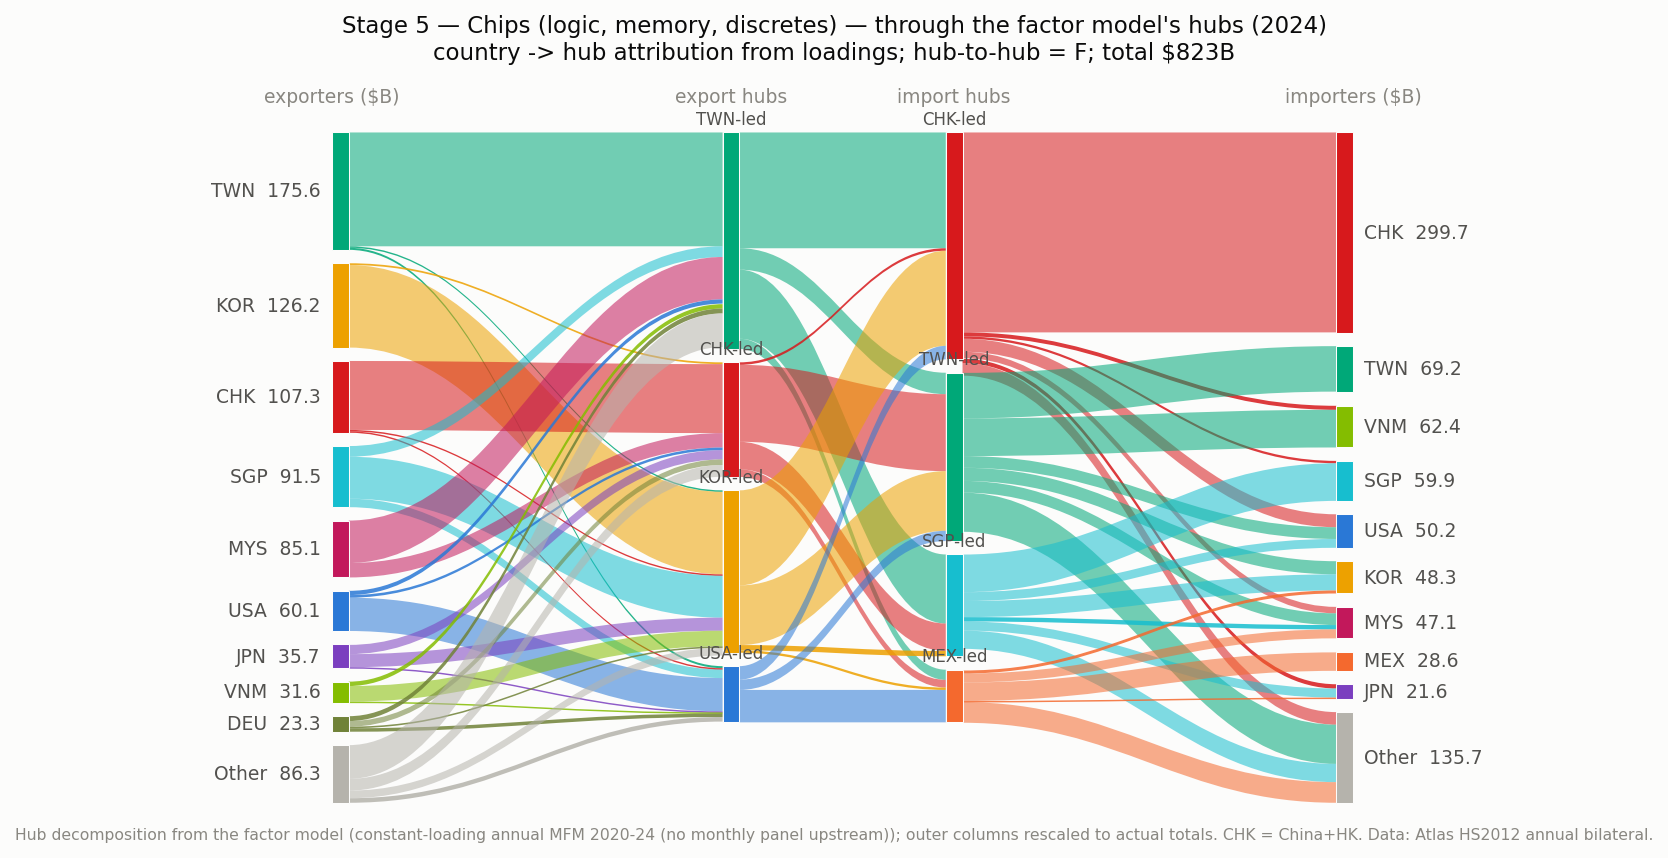
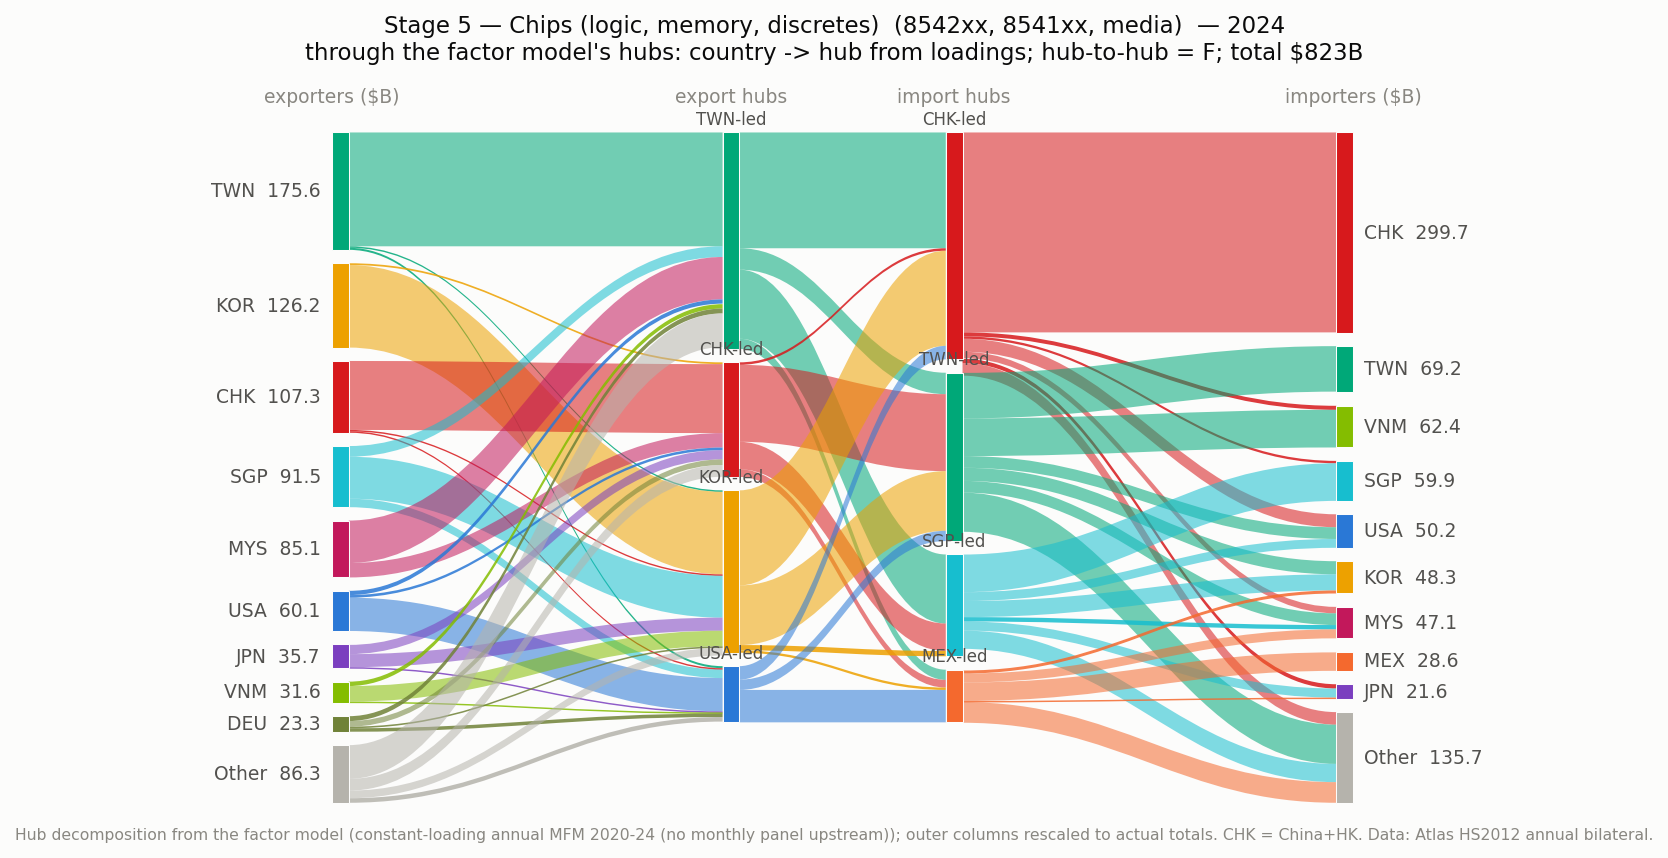
Hub charts: HS codes in titles; KOR/TWN unit-value counterexample resolved
Per-stage hub chart titles now carry the HS6 codes (e.g. 'Stage 6 -
Parts & GPU modules (HS 847330) - 2024'). Brainstorm evidence audit
updated: the KOR/TWN same-hub price gap reflects physical form (bare HBM
vs assembled modules with heatsinks), not different market segments --
the hub grouping is plausibly correct, and weight-based unit values
confound value density with form factor; use per-unit values across
forms.

Changed region(s): [[0.1871, 0.0, 0.8106, 0.0909]]

diff --git a/scripts/export_supply_chain_sankey.py b/scripts/export_supply_chain_sankey.py
@@ -262,7 +262,7 @@ def hubs_from_json(baskets, k=4):
         "constant-loading annual MFM 2020-24 (no monthly panel upstream)"
 
 
-def draw_hub_chart(fname, title, code_or_baskets, kind, year=YEAR):
+def draw_hub_chart(fname, title, codes_txt, code_or_baskets, kind, year=YEAR):
     """Four-column chart: exporters -> export hubs -> import hubs -> importers.
     Hub-pair dollars are the model-implied decomposition renormalized to the
     year's actual total -- an interpretation layer, not raw data."""
@@ -385,9 +385,10 @@ def draw_hub_chart(fname, title, code_or_baskets, kind, year=YEAR):
     for x, lab in ((xs[0], "exporters ($B)"), (xs[1] + nw / 2, "export hubs"),
                    (xs[2] + nw / 2, "import hubs"), (xs[3] + nw, "importers ($B)")):
         ax.text(x, 1.045, lab, ha="center", fontsize=9, color=MUTED)
-    ax.set_title(f"{title} — through the factor model's hubs ({year})\n"
-                 f"country -> hub attribution from loadings; hub-to-hub = F; "
-                 f"total ${total_actual:.0f}B", fontsize=11, color=INK, pad=16)
+    ax.set_title(f"{title}  ({codes_txt})  — {year}\n"
+                 f"through the factor model's hubs: country -> hub from loadings; "
+                 f"hub-to-hub = F; total ${total_actual:.0f}B",
+                 fontsize=11, color=INK, pad=16)
     ax.text(0.5, -0.055, f"Hub decomposition from the factor model ({src}); "
             f"outer columns rescaled to actual totals. CHK = China+HK. Data: {data_src}.",
             ha="center", fontsize=7.5, color=MUTED)
@@ -835,7 +836,7 @@ def main():
     for fname, title, codes_txt, (kind, arg) in STAGES:
         flows = flows_json(arg) if kind == "json" else flows_panel(arg)
         all_flows.append(flows)
-        draw_hub_chart(fname, title, arg, kind)
+        draw_hub_chart(fname, title, codes_txt, arg, kind)
     input_stages = [("raw materials", all_flows[0]), ("wafers", all_flows[1]),
                     ("litho & optics", all_flows[2]), ("fab equipment", all_flows[3])]
     inter = {}

diff --git a/docs/modeling-brainstorm.md b/docs/modeling-brainstorm.md
@@ -211,11 +211,18 @@ heterogeneity (unit values 10-100x apart, necessary condition); coarse
 hub/price-tier alignment (CHN's cheap-parts hub vs TWN elsewhere; solo-TWN
 847180 hub = the price outlier); and the temporal coincidence — flows (hub
 purification) and prices (unit-value divergence) independently date the AI
-variety's birth to mid-2023. Known counterexample: KOR ($5,071/kg) and TWN
-($280/kg) shared an 847330 hub — within-hub heterogeneity remains large, so
-hubs are coarse variety clusters at best. Untested: the direct tariff-line
-decomposition (Taiwan 11-digit) and a formal within/across-hub unit-value
-variance decomposition (needs more reporters' quantities).
+variety's birth to mid-2023. The apparent counterexample — KOR
+($5,071/kg) and TWN ($280/kg) sharing an 847330 hub — largely dissolves on
+inspection: Korea ships nearly-bare memory (HBM stacks — grams of silicon,
+maximal value density) while Taiwan ships assembled modules (the same class of
+silicon plus PCB, power stages, and a kilogram of heatsink), so the $/kg gap
+reflects physical form, not market segment; the hub grouping (both AI-component
+suppliers to the same customers) is plausibly the model being RIGHT. Lesson:
+weight-based unit values confound value density with form factor — variety
+comparisons need per-unit values (QTY1: sets/pieces) or within-form $/kg.
+Untested: the direct tariff-line decomposition (Taiwan 11-digit) and a formal
+within/across-hub unit-value variance decomposition (needs more reporters'
+quantities, per-unit where possible).
 
 **Consequence for measurement.** The effective market is the variety segment,
 not the HS6 code. Concentration and power computed at code level understate
